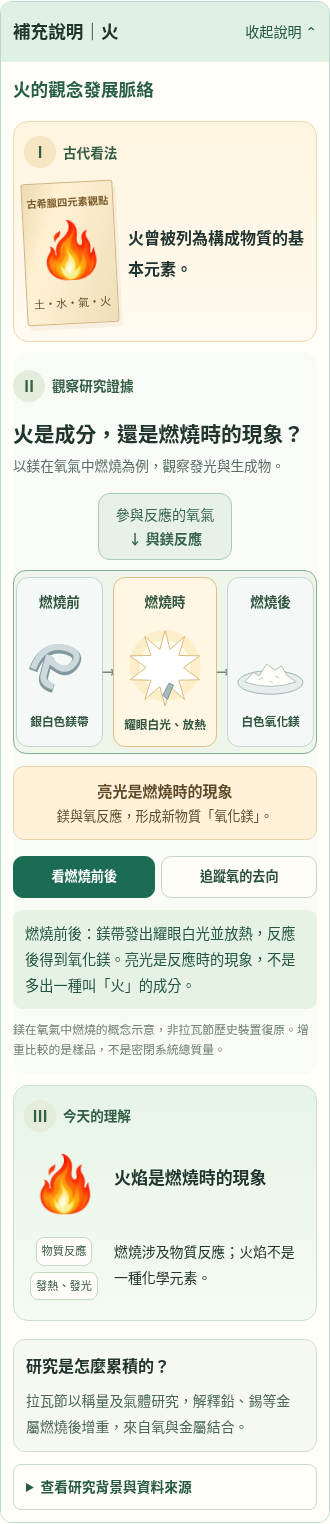
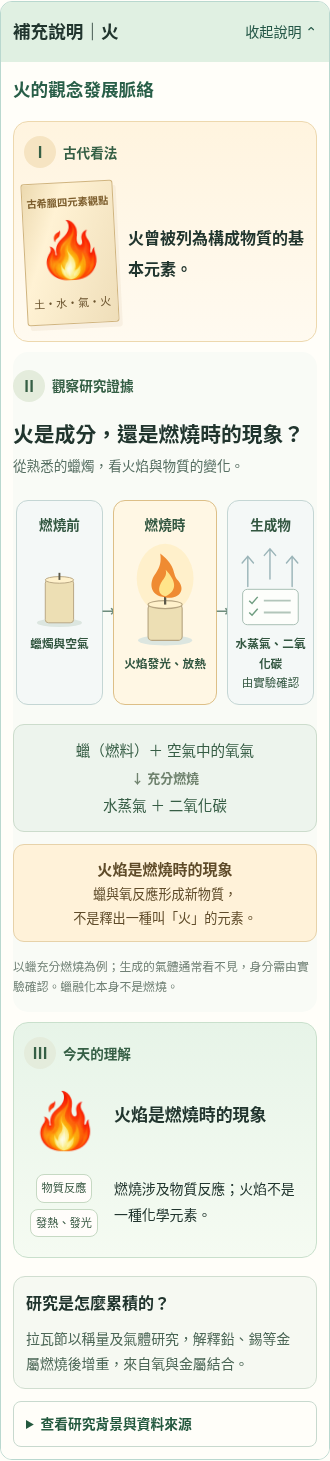
Use everyday candle combustion and remove redundant fire controls

diff --git a/units/6/parts/6.1/assets/classical-inquiry.css b/units/6/parts/6.1/assets/classical-inquiry.css
@@ -1,4 +1,4 @@
-.visual-inquiry{padding:20px 16px;background:#fffef9}.visual-inquiry>h4{margin:0 0 16px;font-size:1.1rem;color:#285e48}.inquiry-grid{display:grid;grid-template-columns:minmax(125px,.7fr) minmax(0,2.1fr) minmax(160px,.9fr);gap:15px;align-items:stretch}.inquiry-stage{min-width:0;border-radius:15px;padding:15px 12px}.inquiry-past{background:linear-gradient(#fff4df,#fffaf0);border:1px solid #edd8ae}.inquiry-evidence{background:#f9fbf6;padding:15px 0}.inquiry-modern{background:linear-gradient(#e7f4e8,#f5fbf2);border:1px solid #c9e0cc}.inquiry-kicker{display:flex;align-items:center;gap:7px;color:#355f45;font-size:.86rem;font-weight:800;line-height:1.6;min-height:36px;margin-bottom:15px}.inquiry-kicker b{display:grid;place-items:center;width:32px;height:32px;background:#e4ecdc;border-radius:50%;flex:0 0 auto;font-size:.95rem}.inquiry-past .inquiry-kicker b{background:#f6e4c2}.inquiry-evidence h5{font-size:1.24rem;line-height:1.45;margin:0 0 6px}.inquiry-evidence>p:first-of-type{font-size:.85rem;color:#566e62;line-height:1.6;margin:0 0 12px}.ancient-paper{margin:20px 0 18px;padding:14px 6px;border:1px solid #d0b47e;border-radius:3px;background:linear-gradient(110deg,#ecd9af,#fff2d4 30%,#efdeb9);box-shadow:3px 5px 0 #c9b18520;text-align:center;transform:rotate(-3deg)}.ancient-paper>span{display:block;font-size:.72rem;color:#7b5c2b;font-weight:750}.ancient-paper .classical-icon{display:block;width:95px;height:95px;margin:14px auto}.ancient-paper>small{display:block;font-size:.85rem;color:#6b542e;white-space:nowrap}.inquiry-past>p{font-size:1rem;font-weight:750;line-height:1.9;margin:16px 0}.inquiry-modern h5{font-size:1.17rem;line-height:1.65;margin:18px 0 12px}.inquiry-modern>p{font-size:.94rem;line-height:1.85}.result-chips{display:flex;flex-wrap:wrap;gap:6px;justify-content:center;margin:18px 0 8px}.result-chips span{padding:5px 8px;border:1px solid #c6d9c3;border-radius:8px;background:#fffdfa;font-size:.8rem;color:#395943}.inquiry-modern .classical-icon{display:block;width:110px;height:110px;margin:14px auto}.inquiry-svg{display:block;width:100%;height:auto}.inquiry-svg text{font-family:inherit;font-size:21px;font-weight:700;fill:#2f5144}.inquiry-svg .diagram-heading{font-size:19px}.inquiry-svg .diagram-caption{font-size:16px;font-weight:600}.inquiry-svg .gas-result{font-size:18px}.inquiry-svg .smoke-label{font-size:16px;fill:#7e8d86}.inquiry-svg .water-record>rect,.inquiry-svg .gas-record>rect,.inquiry-svg .metal-record>rect{fill:#f0f6f7;stroke:#c4d6d4;stroke-width:2}.inquiry-svg .water-record.focused>rect,.inquiry-svg .gas-record.focused>rect,.inquiry-svg .metal-record.focused>rect{fill:#ecf7e9;stroke:#378b61;stroke-width:3}.oxygen-route{opacity:.78}.oxygen-route.focused{opacity:1;filter:drop-shadow(0 0 4px #90caa1)}.oxygen-route.focused>rect{fill:#d8efdc;stroke:#25834e;stroke-width:3}.inquiry-controls{display:flex;flex-wrap:wrap;gap:6px;margin:12px 0}.inquiry-controls button{flex:1 1 auto;min-height:42px;padding:7px 9px;border:1px solid #c6d7c7;border-radius:10px;background:#fffdf7;color:#28503c;font-weight:750;font-size:.86rem}.inquiry-controls button[aria-pressed="true"]{background:#1b6c53;border-color:#1b6c53;color:white}#inquiry-feedback{padding:11px 12px;background:#e6f3e4;border-radius:9px;font-size:.89rem;line-height:1.8;color:#245640;min-height:76px;margin:0}#inquiry-diagram-note{font-size:.74rem;line-height:1.7;color:#708075;margin:10px 0 0}.soil-observer{width:100%;margin:auto;border-radius:14px;overflow:hidden;background:#fbfaf1}.soil-observer svg{display:block;width:100%;height:auto}.soil-target{cursor:pointer}.soil-ring{fill:transparent;stroke:#f6f7f0;stroke-width:5;stroke-dasharray:10 8}.soil-target.focused .soil-ring{stroke:#20a0cb;stroke-width:9;stroke-dasharray:none;fill:#e5f8ff28}.soil-target:focus-visible{outline:none}.soil-target:focus-visible .soil-ring{stroke:#b9791f;stroke-width:10;stroke-dasharray:none}.soil-legend{display:flex;flex-wrap:wrap;gap:5px 12px;justify-content:center;margin:8px 0;color:#577062;font-size:.74rem}.inquiry-history-brief{padding:15px 17px;border:1px solid #d0ded0;border-radius:12px;background:#f6f9f2;margin-top:18px;display:flex;gap:18px;align-items:center}.inquiry-history-brief strong{flex:0 0 auto;font-size:1rem}.inquiry-history-brief p{margin:0;font-size:.87rem;color:#4b6656;line-height:1.8}#inquiry-research{margin-top:12px;font-size:.86rem}#inquiry-research summary{padding:10px 12px;border:1px solid #c8d9ce;border-radius:8px;color:#24593f;cursor:pointer;font-weight:750;min-height:44px}.inquiry-background{padding:16px;background:#f4f8f0;border-radius:0 0 10px 10px;line-height:1.9}.inquiry-background h5{font-size:.94rem;margin:15px 0 5px}.inquiry-background h5:first-child{margin-top:0}.inquiry-background p{margin:5px 0 12px}#history-scope{color:#5d7363;font-size:.83rem}#history-sources{overflow-wrap:anywhere}
+.visual-inquiry{padding:20px 16px;background:#fffef9}.visual-inquiry>h4{margin:0 0 16px;font-size:1.1rem;color:#285e48}.inquiry-grid{display:grid;grid-template-columns:minmax(125px,.7fr) minmax(0,2.1fr) minmax(160px,.9fr);gap:15px;align-items:stretch}.inquiry-stage{min-width:0;border-radius:15px;padding:15px 12px}.inquiry-past{background:linear-gradient(#fff4df,#fffaf0);border:1px solid #edd8ae}.inquiry-evidence{background:#f9fbf6;padding:15px 0}.inquiry-modern{background:linear-gradient(#e7f4e8,#f5fbf2);border:1px solid #c9e0cc}.inquiry-kicker{display:flex;align-items:center;gap:7px;color:#355f45;font-size:.86rem;font-weight:800;line-height:1.6;min-height:36px;margin-bottom:15px}.inquiry-kicker b{display:grid;place-items:center;width:32px;height:32px;background:#e4ecdc;border-radius:50%;flex:0 0 auto;font-size:.95rem}.inquiry-past .inquiry-kicker b{background:#f6e4c2}.inquiry-evidence h5{font-size:1.24rem;line-height:1.45;margin:0 0 6px}.inquiry-evidence>p:first-of-type{font-size:.85rem;color:#566e62;line-height:1.6;margin:0 0 12px}.ancient-paper{margin:20px 0 18px;padding:14px 6px;border:1px solid #d0b47e;border-radius:3px;background:linear-gradient(110deg,#ecd9af,#fff2d4 30%,#efdeb9);box-shadow:3px 5px 0 #c9b18520;text-align:center;transform:rotate(-3deg)}.ancient-paper>span{display:block;font-size:.72rem;color:#7b5c2b;font-weight:750}.ancient-paper .classical-icon{display:block;width:95px;height:95px;margin:14px auto}.ancient-paper>small{display:block;font-size:.85rem;color:#6b542e;white-space:nowrap}.inquiry-past>p{font-size:1rem;font-weight:750;line-height:1.9;margin:16px 0}.inquiry-modern h5{font-size:1.17rem;line-height:1.65;margin:18px 0 12px}.inquiry-modern>p{font-size:.94rem;line-height:1.85}.result-chips{display:flex;flex-wrap:wrap;gap:6px;justify-content:center;margin:18px 0 8px}.result-chips span{padding:5px 8px;border:1px solid #c6d9c3;border-radius:8px;background:#fffdfa;font-size:.8rem;color:#395943}.inquiry-modern .classical-icon{display:block;width:110px;height:110px;margin:14px auto}.inquiry-svg{display:block;width:100%;height:auto}.inquiry-svg text{font-family:inherit;font-size:21px;font-weight:700;fill:#2f5144}.inquiry-svg .diagram-heading{font-size:19px}.inquiry-svg .diagram-caption{font-size:16px;font-weight:600}.inquiry-svg .gas-result{font-size:18px}.inquiry-svg .smoke-label{font-size:16px;fill:#7e8d86}.inquiry-svg .water-record>rect,.inquiry-svg .gas-record>rect{fill:#f0f6f7;stroke:#c4d6d4;stroke-width:2}.inquiry-svg .water-record.focused>rect,.inquiry-svg .gas-record.focused>rect{fill:#ecf7e9;stroke:#378b61;stroke-width:3}.inquiry-controls{display:flex;flex-wrap:wrap;gap:6px;margin:12px 0}.inquiry-controls button{flex:1 1 auto;min-height:42px;padding:7px 9px;border:1px solid #c6d7c7;border-radius:10px;background:#fffdf7;color:#28503c;font-weight:750;font-size:.86rem}.inquiry-controls button[aria-pressed="true"]{background:#1b6c53;border-color:#1b6c53;color:white}#inquiry-feedback{padding:11px 12px;background:#e6f3e4;border-radius:9px;font-size:.89rem;line-height:1.8;color:#245640;min-height:76px;margin:0}#inquiry-diagram-note{font-size:.74rem;line-height:1.7;color:#708075;margin:10px 0 0}.soil-observer{width:100%;margin:auto;border-radius:14px;overflow:hidden;background:#fbfaf1}.soil-observer svg{display:block;width:100%;height:auto}.soil-target{cursor:pointer}.soil-ring{fill:transparent;stroke:#f6f7f0;stroke-width:5;stroke-dasharray:10 8}.soil-target.focused .soil-ring{stroke:#20a0cb;stroke-width:9;stroke-dasharray:none;fill:#e5f8ff28}.soil-target:focus-visible{outline:none}.soil-target:focus-visible .soil-ring{stroke:#b9791f;stroke-width:10;stroke-dasharray:none}.soil-legend{display:flex;flex-wrap:wrap;gap:5px 12px;justify-content:center;margin:8px 0;color:#577062;font-size:.74rem}.inquiry-history-brief{padding:15px 17px;border:1px solid #d0ded0;border-radius:12px;background:#f6f9f2;margin-top:18px;display:flex;gap:18px;align-items:center}.inquiry-history-brief strong{flex:0 0 auto;font-size:1rem}.inquiry-history-brief p{margin:0;font-size:.87rem;color:#4b6656;line-height:1.8}#inquiry-research{margin-top:12px;font-size:.86rem}#inquiry-research summary{padding:10px 12px;border:1px solid #c8d9ce;border-radius:8px;color:#24593f;cursor:pointer;font-weight:750;min-height:44px}.inquiry-background{padding:16px;background:#f4f8f0;border-radius:0 0 10px 10px;line-height:1.9}.inquiry-background h5{font-size:.94rem;margin:15px 0 5px}.inquiry-background h5:first-child{margin-top:0}.inquiry-background p{margin:5px 0 12px}#history-scope{color:#5d7363;font-size:.83rem}#history-sources{overflow-wrap:anywhere}
 @media(max-width:1150px){.inquiry-grid{grid-template-columns:minmax(110px,.6fr) minmax(0,1.8fr) minmax(135px,.75fr);gap:10px}.inquiry-stage{padding:12px 10px}.inquiry-evidence{padding:12px 0}.inquiry-modern h5{font-size:1.05rem}.inquiry-modern>p{font-size:.87rem}.inquiry-kicker{font-size:.79rem}.ancient-paper .classical-icon{width:80px;height:80px}.inquiry-past>p{font-size:.91rem}}
 @media(max-width:1000px){.inquiry-grid{grid-template-columns:1fr}.inquiry-past{display:grid;grid-template-columns:110px minmax(0,1fr);gap:8px 15px;align-items:center}.inquiry-past .inquiry-kicker{grid-column:1/-1;margin-bottom:0}.ancient-paper{margin:4px 0}.inquiry-past>p{font-size:1rem}.inquiry-evidence{padding:16px 0}.inquiry-modern{display:grid;grid-template-columns:110px minmax(0,1fr);gap:4px 15px;align-items:center}.inquiry-modern .inquiry-kicker{grid-column:1/-1;margin:0}.inquiry-modern #inquiry-conclusion-visual{grid-row:2/4}.inquiry-modern .classical-icon{width:80px;height:80px}.inquiry-modern h5{font-size:1.2rem;margin:8px 0}.inquiry-modern>p{font-size:.94rem;margin:0}.inquiry-history-brief{display:block}.inquiry-history-brief p{margin-top:8px}.inquiry-evidence h5{font-size:1.3rem}.visual-inquiry{padding:16px}}
 @media(max-width:420px){.visual-inquiry{padding:12px}.inquiry-past{grid-template-columns:92px minmax(0,1fr);gap:8px 12px}.ancient-paper{padding:10px 4px}.ancient-paper>span{font-size:.64rem}.ancient-paper .classical-icon{width:66px;height:66px;margin:8px auto}.ancient-paper>small{font-size:.69rem}.inquiry-modern{grid-template-columns:80px minmax(0,1fr);gap:5px 10px}.inquiry-modern h5{font-size:1.06rem}.inquiry-modern>p{font-size:.87rem}.inquiry-modern .classical-icon{width:66px;height:66px}.result-chips span{font-size:.7rem;padding:3px 5px}.inquiry-controls button{font-size:.82rem}.inquiry-svg .diagram-heading{font-size:21px}.inquiry-svg .diagram-caption{font-size:18px}.inquiry-svg .gas-result{font-size:17px}.inquiry-svg .air-composition .diagram-heading{font-size:19px}.inquiry-history-brief{padding:12px}.inquiry-kicker{font-size:.85rem}}
@@ -7,6 +7,8 @@
 .water-investigation{display:grid;gap:10px}.water-record{overflow:hidden;border:1px solid #c4d6d4;border-radius:14px;background:#f3f8f9;transition:border-color .15s,background-color .15s}.water-record.focused{background:#edf7ea;border-color:#378b61;box-shadow:inset 0 0 0 1px #378b61}.water-record header{display:flex;align-items:center;gap:8px;padding:12px 12px 4px;color:#2e5846;font-size:.91rem;line-height:1.6}.water-direction{flex:none;border-radius:7px;padding:3px 8px;background:#e2ece0;font-size:.8rem;font-weight:800}.water-record.focused .water-direction{color:white;background:#397e5b}.water-record .inquiry-svg{width:100%;max-width:600px;margin:auto}.water-record .water-label{font-size:24px}.water-record .water-small{font-size:20px;font-weight:600}.water-finding{display:flex;gap:9px;align-items:baseline;margin:0;padding:10px 12px;background:#e6efec;color:#29543f;font-size:.9rem;line-height:1.7}.water-finding>span{flex:none;font-size:.77rem;font-weight:800;border:1px solid #acc7b5;border-radius:5px;padding:0 5px}.water-record.focused .water-finding{background:#dcecd9}.water-evidence-link{text-align:center;padding:2px 4px;color:#56745f;font-size:.83rem;font-weight:750;line-height:1.65}
 @media(prefers-reduced-motion:reduce){.water-record{transition:none}}
 
-/* Combustion stays visible: before, burning and product are observed together. */
-.fire-investigation{padding:4px 0}.fire-investigation .oxygen-route{width:max-content;max-width:100%;margin:0 auto 10px;padding:9px 17px;text-align:center;background:#e7f1e8;border:1px solid #a8cbb3;border-radius:12px;opacity:1;line-height:1.7;color:#37654a;font-size:.88rem}.fire-investigation .oxygen-route span,.fire-investigation .oxygen-route strong{display:block}.fire-investigation .oxygen-route.focused{background:#d8efdc;border:2px solid #25834e;filter:none;padding:8px 16px}.fire-sequence{display:grid;grid-template-columns:1fr 1.2fr 1fr;gap:13px;border:1px solid transparent;border-radius:13px;padding:7px 4px}.fire-sequence.focused{border-color:#83af91;background:#edf6e9}.fire-sequence article{position:relative;min-width:0;border:1px solid #c4d6d4;border-radius:12px;background:#f4f8f7;overflow:visible}.fire-sequence .fire-burning{background:#fff7e4;border-color:#ddbf87}.fire-sequence h6{font-size:.9rem;text-align:center;margin:12px 3px 0;color:#325640}.fire-sequence svg{display:block;width:100%;height:auto}.fire-sequence p{font-size:.81rem;text-align:center;color:#325640;font-weight:750;line-height:1.7;margin:0 3px 11px}.fire-sequence article:not(:last-child)::after{content:'→';position:absolute;left:100%;top:48%;width:14px;text-align:center;color:#6d8c7c;font-size:17px;font-weight:800}.fire-findings{margin-top:12px;padding:13px 10px;background:#fff2d9;border:1px solid #e7d2a9;border-radius:11px;text-align:center;line-height:1.8;color:#5f4b29}.fire-findings strong,.fire-findings span{display:block}.fire-findings strong{font-size:1rem}.fire-findings span{font-size:.86rem}
+/* Everyday combustion: the full explanation is visible without extra controls. */
+.fire-investigation{padding:4px 0}.fire-sequence{display:grid;grid-template-columns:1fr 1.2fr 1fr;gap:13px;border:1px solid transparent;border-radius:13px;padding:7px 4px}.fire-sequence article{position:relative;min-width:0;border:1px solid #c4d6d4;border-radius:12px;background:#f4f8f7;overflow:visible}.fire-sequence .fire-burning{background:#fff7e4;border-color:#ddbf87}.fire-sequence h6{font-size:.9rem;text-align:center;margin:12px 3px 0;color:#325640}.fire-sequence svg{display:block;width:100%;height:auto}.fire-sequence p{font-size:.81rem;text-align:center;color:#325640;font-weight:750;line-height:1.7;margin:0 3px 11px}.fire-sequence article:not(:last-child)::after{content:'→';position:absolute;left:100%;top:48%;width:14px;text-align:center;color:#6d8c7c;font-size:17px;font-weight:800}.fire-findings{margin-top:12px;padding:13px 10px;background:#fff2d9;border:1px solid #e7d2a9;border-radius:11px;text-align:center;line-height:1.8;color:#5f4b29}.fire-findings strong,.fire-findings span{display:block}.fire-findings strong{font-size:1rem}.fire-findings span{font-size:.86rem}
 @media(max-width:420px){.fire-sequence{gap:10px;padding:6px 2px}.fire-sequence h6{font-size:.85rem}.fire-sequence p{font-size:.73rem}.fire-sequence article:not(:last-child)::after{width:11px;font-size:14px}.fire-findings{padding:11px 8px}.fire-findings strong{font-size:.94rem}.fire-findings span{font-size:.82rem}}
+
+.inquiry-controls[hidden],#inquiry-feedback[hidden]{display:none}.fire-sequence small{font-size:.72rem;font-weight:500}.candle-reaction{display:grid;gap:4px;margin:12px 0;padding:13px 8px;text-align:center;background:#edf4ed;border:1px solid #ccdccc;border-radius:11px;color:#365d45;line-height:1.7;font-size:.91rem}.candle-reaction b{font-size:.81rem;color:#6f826e}

diff --git a/units/6/parts/6.1/assets/classical-inquiry.js b/units/6/parts/6.1/assets/classical-inquiry.js
@@ -27,16 +27,14 @@
       feedback: { oxygen: '氧氣：可使蠟燭燃燒更旺。氧氣是助燃氣體，並不是燃料。', ordinary: '空氣：能讓蠟燭燃燒；組成研究顯示，其中包含氮、氧及其他氣體。', carbon: '二氧化碳：不能維持這裡的蠟燭燃燒。這個比較本身還不足以證明空氣是混合物。' }
     },
     fire: {
-      past: '火曾被列為構成物質的基本元素。', title: '火是成分，還是燃燒時的現象？', instruction: '以鎂在氧氣中燃燒為例，觀察發光與生成物。',
+      past: '火曾被列為構成物質的基本元素。', title: '火是成分，還是燃燒時的現象？', instruction: '從熟悉的蠟燭，看火焰與物質的變化。',
       conclusion: '火焰是燃燒時的現象', result: '燃燒涉及物質反應；火焰不是一種化學元素。',
       brief: '拉瓦節以稱量及氣體研究，解釋鉛、錫等金屬燃燒後增重，來自氧與金屬結合。',
-      note: '鎂在氧氣中燃燒的概念示意，非拉瓦節歷史裝置復原。增重比較的是樣品，不是密閉系統總質量。',
-      choices: [['samples','看燃燒前後'],['oxygen','追蹤氧的去向']], initial: 'samples',
-      feedback: { samples: '燃燒前後：鎂帶發出耀眼白光並放熱，反應後得到氧化鎂。亮光是反應時的現象，不是多出一種叫「火」的成分。', oxygen: '追蹤氧：氧與鎂反應，成為氧化鎂的一部分。若鎂完全反應且產物完整收集，增加的質量來自結合的氧。' }
+      note: '以蠟充分燃燒為例；生成的氣體通常看不見，身分需由實驗確認。蠟融化本身不是燃燒。',
+      choices: [], feedback: {}
     }
   };
   const svg = (content, label, height = 360) => `<svg class="inquiry-svg" viewBox="0 0 600 ${height}" role="img" aria-label="${label}">${content}</svg>`;
-  const arrow = (x,y,width=100) => `<path d="M${x} ${y-8}h${width-22}v-12l22 20-22 20v-12H${x}Z" fill="#86b9c7"/>`;
   function soil() {
     const points = [['mineral',310,290,'1'],['organic',760,330,'2'],['water',340,600,'3'],['air',680,720,'4']];
     return `<div class="soil-observer"><svg viewBox="0 0 1000 1000" role="group" aria-label="土壤組成觀察圖，選擇標記查看成分"><image href="assets/soil-composition.png" width="1000" height="1000"/><g>${points.map(([key,x,y,n])=>`<g data-observe="${key}" class="soil-target" role="button" tabindex="0" aria-label="查看${book.earth.choices.find(c=>c[0]===key)[1]}位置" aria-pressed="false"><circle class="soil-ring" cx="${x}" cy="${y}" r="53"/><circle cx="${x}" cy="${y}" r="20" fill="white" stroke="#366956" stroke-width="3"/><text x="${x}" y="${y+8}" text-anchor="middle" font-size="25" font-weight="800" fill="#214e3e">${n}</text></g>`).join('')}</g></svg></div><div class="soil-legend"><span>1 礦物顆粒</span><span>2 有機物</span><span>3 水</span><span>4 空氣孔隙</span></div>`;
@@ -107,20 +105,27 @@
     return svg(drawing+'<g class="air-composition"><path d="M115 317H485" stroke="#a4bdaf" stroke-width="2"/><text x="300" y="342" text-anchor="middle" class="diagram-heading">空氣組成研究：氮 ＋ 氧 ＋ 其他氣體</text></g>','氧氣、空氣與二氧化碳中的蠟燭燃燒表現不同；下方另列空氣包含的氣體。',365);
   }
   function fire() {
+    const candle = lit => `<svg viewBox="0 0 180 205" role="img" aria-label="${lit?'蠟燭燃燒，燭芯上方有火焰，周圍發光放熱':'未點燃的蠟燭，包含蠟與燭芯'}">
+      ${lit?'<ellipse cx="90" cy="73" rx="50" ry="61" fill="#ffedbd" opacity=".65"/>':''}
+      <ellipse cx="90" cy="182" rx="48" ry="9" fill="#dce6e0"/>
+      <rect x="60" y="${lit?119:91}" width="60" height="${lit?63:91}" rx="7" fill="#eddfb4" stroke="#b7a581" stroke-width="2"/>
+      <ellipse cx="90" cy="${lit?119:91}" rx="30" ry="7" fill="#fff1cb" stroke="#b7a581" stroke-width="2"/>
+      <path d="M90 ${lit?119:91}v-15" stroke="#5b5849" stroke-width="4"/>
+      ${lit?flame(90,106,.95):''}</svg>`;
     return `<div class="fire-investigation">
-      <div class="oxygen-route" data-focus="oxygen"><span>參與反應的氧氣</span><strong>↓ 與鎂反應</strong></div>
-      <div class="metal-record fire-sequence" data-focus="samples">
-        <article class="fire-before"><h6>燃燒前</h6>
-          <svg viewBox="0 0 180 205" role="img" aria-label="燃燒前的銀白色鎂帶"><path d="M34 118Q55 62 104 74Q139 84 120 108Q104 126 83 111Q66 101 68 89L56 133Q54 149 77 156" fill="none" stroke="#81999e" stroke-width="19"/><path d="M34 114Q55 58 104 70Q139 80 120 104Q104 122 83 107Q66 97 68 85L56 129Q54 145 77 152" fill="none" stroke="#cddadd" stroke-width="13"/></svg>
-          <p>銀白色鎂帶</p></article>
-        <article class="fire-burning"><h6>燃燒時</h6>
-          <svg viewBox="0 0 210 205" role="img" aria-label="鎂燃燒發出耀眼白光並放熱，圖為靜態示意"><circle cx="105" cy="104" r="73" fill="#f8e8b5" opacity=".6"/><circle cx="105" cy="104" r="52" fill="#fffbed"/><path d="M105 32l10 39 30-27-12 39 43 1-33 24 33 25-43 1 12 40-30-27-10 40-11-40-31 27 13-40-43-1 33-25-33-24 43-1-13-39 31 27Z" fill="white" stroke="#dab877" stroke-width="2"/><path d="M100 165l13-25 9 4-12 29Z" fill="#a9b9ba" stroke="#799192" stroke-width="2"/><circle cx="105" cy="105" r="19" fill="white"/></svg>
-          <p>耀眼白光、放熱</p></article>
-        <article class="fire-after"><h6>燃燒後</h6>
-          <svg viewBox="0 0 180 205" role="img" aria-label="燃燒後形成白色的氧化鎂粉末"><ellipse cx="90" cy="143" rx="69" ry="25" fill="#e6eeed" stroke="#9cb0ac" stroke-width="2"/><path d="M35 142l19-20 12 7 16-25 18 13 13-9 13 21 18 13Q91 161 35 142Z" fill="#fffef9" stroke="#afbbb5" stroke-width="2"/><path d="M65 137l10-4m25-4 8 5m-20 6 7 4" stroke="#d2d9d3" stroke-width="3"/></svg>
-          <p>白色氧化鎂</p></article>
+      <div class="fire-sequence">
+        <article class="fire-before"><h6>燃燒前</h6>${candle(false)}<p>蠟燭與空氣</p></article>
+        <article class="fire-burning"><h6>燃燒時</h6>${candle(true)}<p>火焰發光、放熱</p></article>
+        <article class="fire-after"><h6>生成物</h6>
+          <svg viewBox="0 0 180 205" role="img" aria-label="燃燒生成的無色氣體需經實驗確認，圖示為氣體擴散與檢驗紀錄，不是可見的煙">
+            <path d="M42 105V41m-12 14 12-14 12 14M89 89V25m-12 14 12-14 12 14M136 105V41m-12 14 12-14 12 14" fill="none" stroke="#9ab4b8" stroke-width="3" stroke-linecap="round"/>
+            <rect x="31" y="111" width="118" height="75" rx="10" fill="#fdfefb" stroke="#a5bcb1" stroke-width="2"/>
+            <path d="M45 135l6 6 12-14m-18 33 6 6 12-14" fill="none" stroke="#6f9d80" stroke-width="3"/>
+            <path d="M76 135h57m-57 25h57" stroke="#b2c5ba" stroke-width="4"/>
+          </svg><p>水蒸氣、二氧化碳<br><small>由實驗確認</small></p></article>
       </div>
-      <div class="fire-findings"><strong>亮光是燃燒時的現象</strong><span>鎂與氧反應，形成新物質「氧化鎂」。</span></div>
+      <div class="candle-reaction"><span>蠟（燃料）＋ 空氣中的氧氣</span><b>↓ 充分燃燒</b><span>水蒸氣 ＋ 二氧化碳</span></div>
+      <div class="fire-findings"><strong>火焰是燃燒時的現象</strong><span>蠟與氧反應形成新物質，<br>不是釋出一種叫「火」的元素。</span></div>
     </div>`;
   }
   const diagrams = { earth:soil, water, air, fire };
@@ -144,6 +149,8 @@
     $('#inquiry-diagram').innerHTML=diagrams[key]();
     $('#inquiry-conclusion-visual').innerHTML=key==='earth'?'<div class="result-chips"><span>礦物</span><span>有機物</span><span>水</span><span>空氣</span></div><span class="classical-icon icon-earth"></span>':key==='water'?'<div class="result-chips"><span>氫元素</span><span>氧元素</span></div><span class="classical-icon icon-water"></span>':key==='air'?'<div class="result-chips"><span>氮</span><span>氧</span><span>其他氣體</span></div><span class="classical-icon icon-air"></span>':'<span class="classical-icon icon-fire"></span><div class="result-chips"><span>物質反應</span><span>發熱、發光</span></div>';
     const controls=$('#inquiry-controls');controls.replaceChildren();
+    controls.hidden=item.choices.length===0;
+    $('#inquiry-feedback').hidden=controls.hidden;
     item.choices.forEach(([value,label])=>{
       const button=document.createElement('button');button.type='button';button.dataset.observation=value;button.textContent=label;
       button.addEventListener('click',()=>select(key,value));controls.append(button);
@@ -153,7 +160,8 @@
       point.addEventListener('keydown',e=>{if(e.key==='Enter'||e.key===' '){e.preventDefault();select(key,point.dataset.observe);}});
     });
     $('#inquiry-research').open=false;
-    select(key,item.initial);
+    if (item.choices.length) select(key,item.initial);
+    else { delete root.dataset.observation; $('#inquiry-feedback').textContent=''; }
   }
   window.ClassicalInquiry={render};
 })();

diff --git a/units/6/parts/6.1/assets/elements.js b/units/6/parts/6.1/assets/elements.js
@@ -100,7 +100,7 @@
       modernTitle: '火焰是燃燒時的現象',
       modern: '火焰涉及燃燒中的高溫氣體等發光，不是一種化學元素。燃燒可以有火焰，但不是所有燃燒都會出現可見火焰。',
       scope: '金屬燃燒的稱量是理解燃燒的代表性證據，不是從古代四元素觀點直接跳到今日全部燃燒理論的單一步驟。',
-      sources: [['拉瓦節的金屬燃燒稱量','https://www.sciencehistory.org/education/scientific-biographies/antoine-laurent-lavoisier/'],['火焰的現代理解','https://www.britannica.com/science/flame'],['鎂燃燒的性質','https://periodic-table.rsc.org/element/12/magnesium']]
+      sources: [['拉瓦節的金屬燃燒稱量','https://www.sciencehistory.org/education/scientific-biographies/antoine-laurent-lavoisier/'],['火焰的現代理解','https://www.britannica.com/science/flame'],['燃燒與發光放熱','https://openstax.org/books/chemistry-2e/pages/4-2-classifying-chemical-reactions']]
     }
   };
   function renderClassicalHistory(key) {

diff --git a/docs/reviews/unit-6.1-visual-inquiry/review.md b/docs/reviews/unit-6.1-visual-inquiry/review.md
@@ -53,3 +53,14 @@
 主要結果直接可見，操作分為看燃燒前後與追蹤氧。質量補充移到氧的回饋中，限定鎂完全反應且產物完整收集。歷史短註與詳細研究史仍為拉瓦節的鉛／錫研究，明示鎂圖不是歷史裝置復原；不把燃燒一概等同可見火焰。
 
 實際讀取皇家化學學會鎂元素資料，核對燃燒發光與放熱性質；來源加入展開資料區。15 組子測試通過（含主項共 16 項），含新增燃燒白光、氧化鎂與現象連結的檢查，以及六種寬度下火圖的溢出檢查。目視[桌面](fire-desktop.png)與[手機](fire-mobile.png)，氧的箭頭、三格順序與說明均可見。
+
+## 火改用生活例子並移除無效操作（2026-10-28）
+
+使用者指出鎂帶對這個階段的學生陌生，兩個只切換強調的按鈕無益。依指示以常見蠟燭取代，移除火項目的兩個按鈕及切換回饋，全部內容直接可見。
+
+- 三格為燃燒前蠟燭與空氣、燃燒時的火焰與放熱、經實驗確認的生成物；第三格不畫成可見煙霧。
+- 以蠟充分燃燒為例，呈現燃料與氧生成水蒸氣及二氧化碳；註明氣體身分需經實驗確認，融化本身不是燃燒。
+- 火焰是燃燒現象的結論保留，歷史研究仍在下方說明，不將蠟燭圖冒稱拉瓦節的特定實驗。
+- 切回土、水、氣，原有操作與回饋正常恢復。移除鎂的頁面來源，補上 OpenStax 4.2 對燃燒與發光放熱的說明（已實際讀取）。
+
+15 組子測試通過（含主項共 16 項），更新檢查蠟燭、生成物、火項目沒有按鈕或回饋框，以及切回其他項目恢復操作。桌面與手機截圖已目視並更新，窄畫面無整頁溢出。

diff --git a/units/6/parts/6.1/assets/README.md b/units/6/parts/6.1/assets/README.md
@@ -55,3 +55,9 @@
 火的主圖改用鎂在氧氣中燃燒的概念例子，並列鎂帶、燃燒發出耀眼白光與放熱、白色氧化鎂，明示亮光是反應時的現象，留下的是新物質。主圖不再以增重為主題；增重補充限定鎂完全反應且產物完整收集。採氧氣中的反應例子，不將空氣中可能的其他反應全部說成只生成氧化鎂。
 
 實際讀取[皇家化學學會：鎂](https://periodic-table.rsc.org/element/12/magnesium)，核對銀白外觀、燃燒發光及與氧反應放熱。歷史研究仍依先前已查核拉瓦節資料，明示鎂圖非歷史裝置復原。插圖是靜態原生 SVG，沒有閃爍光效、虛構數值或新增實驗操作流程。
+
+## 火改用蠟燭（2026-10-28，取代前一版鎂圖）
+
+依使用者指示，移除僅切換強調的兩個按鈕及回饋區，改用生活中熟悉的蠟燭。三格直接呈現燃燒前、燃燒時與生成物；以蠟充分燃燒為例，說明蠟與氧形成水蒸氣及二氧化碳，火焰是燃燒時的現象。生成物圖示是擴散箭頭與檢驗紀錄，不畫可見煙霧，也不只憑火焰判定氣體身分。蠟融化與燃燒明確區分。
+
+實際讀取 [OpenStax Chemistry 2e 4.2](https://openstax.org/books/chemistry-2e/pages/4-2-classifying-chemical-reactions)，核對燃料與氧化劑反應、放熱及常伴隨發光的燃燒概念。詳細歷史來源保留；前一版皇家化學學會鎂來源不再顯示於正式火區。其他項目的按鈕與回饋仍保留。
